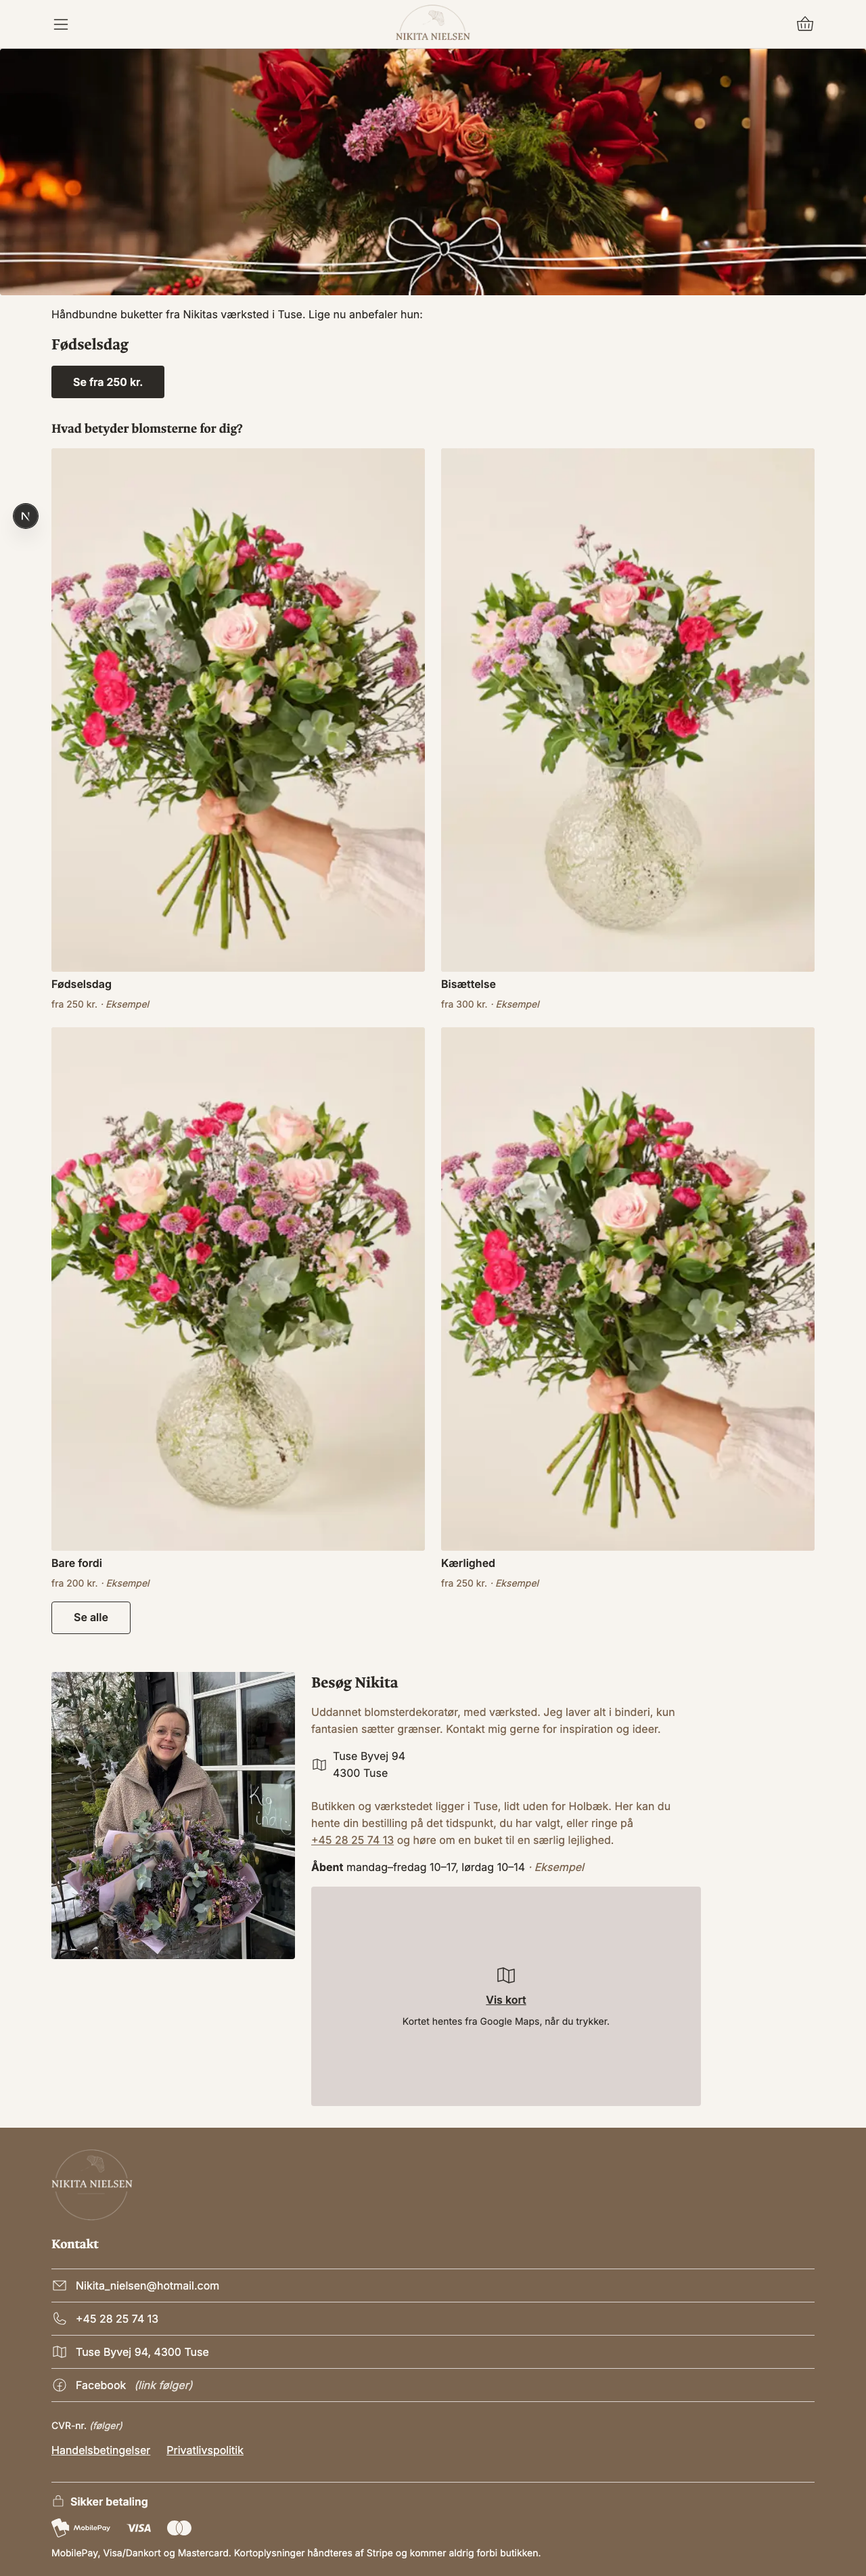
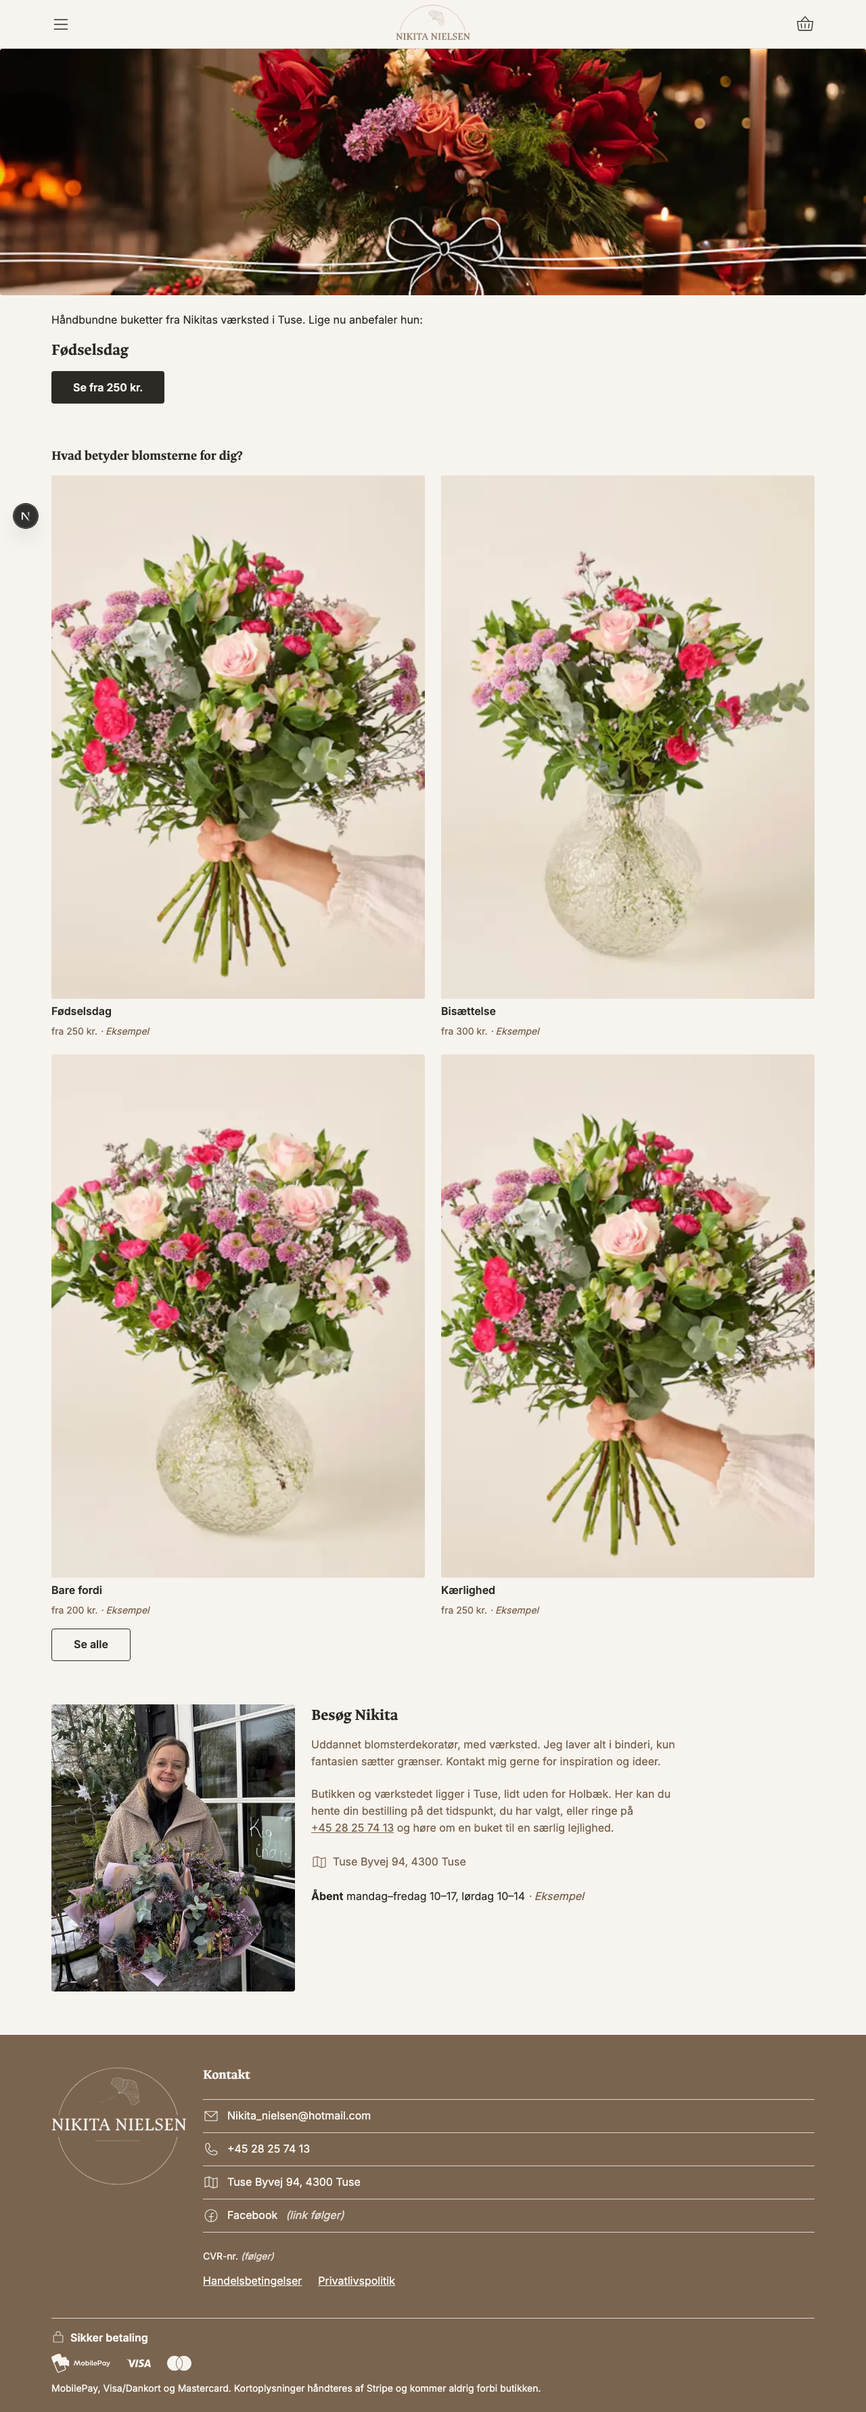
Front page grouped by proximity; Besøg Nikita without map; footer split from tablet up (DD-34, DD-36, DD-37)

diff --git a/frontend/src/components/site-footer.tsx b/frontend/src/components/site-footer.tsx
@@ -18,7 +18,10 @@ import styles from "./site-footer.module.css";
 /**
  * Footer C (DD-08): a Sand band, the full logo in Paper, contact as
  * full-width 48 px rows, then CVR, the legal links (CLAUDE.md override 1)
- * and the payment methods (DD-22).
+ * and secure payment with the marks (DD-33). From tablet up it splits: a
+ * larger logo on the left, the information on the right, payment across
+ * both (DD-36). The phone keeps one column: a 390 px screen has no room
+ * for the logo beside the email address (found with footer variant A).
  */
 export function SiteFooter() {
   const address = `${SHOP.street}, ${SHOP.postcode} ${SHOP.town}`;
@@ -27,57 +30,60 @@ export function SiteFooter() {
       <Image
         src="/brand/logo-full-paper-160w@3x.png"
         alt="Nikita Nielsen"
-        width={120}
-        height={105}
+        width={200}
+        height={175}
+        sizes="(max-width: 599px) 120px, 200px"
         className={styles.logo}
       />
-      <h2 className={styles.heading}>Kontakt</h2>
-      <ul className={styles.list}>
-        <li>
-          <a className={styles.row} href={`mailto:${SHOP.email}`}>
-            <EnvelopeIcon /> {SHOP.email}
-          </a>
-        </li>
-        <li>
-          <a className={styles.row} href={SHOP.phoneHref}>
-            <PhoneIcon /> {SHOP.phone}
-          </a>
-        </li>
-        <li>
-          <a
-            className={styles.row}
-            href={`https://www.google.com/maps/search/?api=1&query=${encodeURIComponent(address)}`}
-          >
-            <MapTrifoldIcon /> {address}
-          </a>
-        </li>
-        <li>
-          {SHOP.facebookUrl ? (
-            <a className={styles.row} href={SHOP.facebookUrl}>
-              <FacebookLogoIcon /> Facebook
+      <div className={styles.info}>
+        <h2 className={styles.heading}>Kontakt</h2>
+        <ul className={styles.list}>
+          <li>
+            <a className={styles.row} href={`mailto:${SHOP.email}`}>
+              <EnvelopeIcon /> {SHOP.email}
             </a>
-          ) : (
-            <span className={styles.row}>
-              <FacebookLogoIcon /> Facebook{" "}
-              <span className={styles.placeholder}>(link følger)</span>
-            </span>
-          )}
-        </li>
-      </ul>
-      <div className={styles.legal}>
-        <p>
-          {SHOP.cvr ? (
-            `CVR-nr. ${SHOP.cvr}`
-          ) : (
-            <>
-              CVR-nr. <span className={styles.placeholder}>(følger)</span>
-            </>
-          )}
-        </p>
-        <p className={styles.links}>
-          <Link href="/handelsbetingelser">Handelsbetingelser</Link>
-          <Link href="/privatlivspolitik">Privatlivspolitik</Link>
-        </p>
+          </li>
+          <li>
+            <a className={styles.row} href={SHOP.phoneHref}>
+              <PhoneIcon /> {SHOP.phone}
+            </a>
+          </li>
+          <li>
+            <a
+              className={styles.row}
+              href={`https://www.google.com/maps/search/?api=1&query=${encodeURIComponent(address)}`}
+            >
+              <MapTrifoldIcon /> {address}
+            </a>
+          </li>
+          <li>
+            {SHOP.facebookUrl ? (
+              <a className={styles.row} href={SHOP.facebookUrl}>
+                <FacebookLogoIcon /> Facebook
+              </a>
+            ) : (
+              <span className={styles.row}>
+                <FacebookLogoIcon /> Facebook{" "}
+                <span className={styles.placeholder}>(link følger)</span>
+              </span>
+            )}
+          </li>
+        </ul>
+        <div className={styles.legal}>
+          <p>
+            {SHOP.cvr ? (
+              `CVR-nr. ${SHOP.cvr}`
+            ) : (
+              <>
+                CVR-nr. <span className={styles.placeholder}>(følger)</span>
+              </>
+            )}
+          </p>
+          <p className={styles.links}>
+            <Link href="/handelsbetingelser">Handelsbetingelser</Link>
+            <Link href="/privatlivspolitik">Privatlivspolitik</Link>
+          </p>
+        </div>
       </div>
       {/* Secure payment and the methods (Felix, 27 Nov). "Sikker betaling",
           not "100 %": no absolute claims (brand voice, marketing law). */}

diff --git a/frontend/src/app/page.tsx b/frontend/src/app/page.tsx
@@ -6,7 +6,6 @@ import { Photo } from "@/components/photo";
 import { getDeliveryRules, getOccasions } from "@/lib/catalog";
 import { kroner } from "@/lib/format";
 import { openingHoursInWords } from "@/lib/opening-hours";
-import { MapEmbed } from "@/components/map-embed";
 import { SHOP } from "@/lib/shop";
 import { HERO_STAND_IN, VISIT_STAND_IN } from "@/lib/stand-ins";
 import styles from "./page.module.css";
@@ -90,21 +89,11 @@ export default async function Home() {
             kun fantasien sætter grænser. Kontakt mig gerne for inspiration og
             ideer.
           </p>
-          <a
-            className={styles.address}
-            href={`https://www.google.com/maps/search/?api=1&query=${encodeURIComponent(address)}`}
-          >
-            <MapTrifoldIcon />
-            <span>
-              {SHOP.street}
-              <br />
-              {SHOP.postcode} {SHOP.town}
-            </span>
-          </a>
         </div>
-        {/* More about the shop and a map (Felix, 27 Nov). Only facts the
-            shop has given: the address, pickup at a chosen time (DD-18),
-            the phone, and the opening hours from the back office. */}
+        {/* More about the shop (Felix, 27 Nov, DD-34): only facts the shop
+            has given, then the address on one line and the opening hours
+            from the back office. The map was tried and taken out the same
+            day (too bulky). */}
         <div className={styles.visitMore}>
           <p className="muted">
             Butikken og værkstedet ligger i Tuse, lidt uden for Holbæk. Her kan
@@ -112,13 +101,19 @@ export default async function Home() {
             på <a href={SHOP.phoneHref}>{SHOP.phone}</a> og høre om en buket til
             en særlig lejlighed.
           </p>
+          <a
+            className={styles.address}
+            href={`https://www.google.com/maps/search/?api=1&query=${encodeURIComponent(address)}`}
+          >
+            <MapTrifoldIcon />
+            <span>{address}</span>
+          </a>
           {rules && Object.keys(rules.openingHours).length > 0 && (
             <p>
               <strong>Åbent</strong> {openingHoursInWords(rules.openingHours)}
               {rules.placeholder && <em className="muted"> · Eksempel</em>}
             </p>
           )}
-          <MapEmbed address={address} />
         </div>
       </section>
     </>

diff --git a/frontend/src/app/page.module.css b/frontend/src/app/page.module.css
@@ -10,11 +10,14 @@
   }
 }
 
+/* Grouping by proximity (Felix, 27 Nov, DD-37): 16 px inside a group, three
+   times that between the recommendation, the occasions and the visit, so
+   each reads as its own block instead of one long run. */
 .featured {
   display: flex;
   flex-direction: column;
   gap: var(--space-2);
-  padding: var(--space-2) var(--page-inline) var(--space-3);
+  padding: var(--space-3) var(--page-inline) var(--space-6);
 }
 
 .intro {
@@ -55,7 +58,7 @@
   display: flex;
   flex-direction: column;
   gap: var(--space-2);
-  padding: var(--space-1) var(--page-inline) var(--space-4);
+  padding: 0 var(--page-inline) var(--space-6);
 }
 
 .occasions h2,
@@ -77,7 +80,7 @@
   display: grid;
   grid-template-columns: 45% 1fr;
   gap: var(--space-3) var(--grid-gutter);
-  padding: var(--space-3) var(--page-inline) var(--space-4);
+  padding: 0 var(--page-inline) var(--space-6);
 }
 
 .visitText {
@@ -107,7 +110,6 @@
   align-items: center;
   gap: var(--space-1);
   min-height: 44px;
-  margin-top: auto;
   color: var(--color-text);
   text-decoration: none;
 }
@@ -143,8 +145,10 @@
     font-size: var(--text-xl);
   }
 
-  .address {
-    margin-top: 0;
+  .featured,
+  .occasions,
+  .visit {
+    padding-bottom: var(--space-8);
   }
 
   /* The buttons fit their text from tablet up (Felix, 27 Nov); on the

diff --git a/frontend/src/components/site-footer.module.css b/frontend/src/components/site-footer.module.css
@@ -91,3 +91,35 @@
 .methods {
   font-size: var(--text-sm);
 }
+
+/* From tablet up (Felix, 27 Nov, DD-36): logo larger on the left, the
+   information on the right, payment across both below. */
+@media (min-width: 600px) {
+  .footer {
+    display: grid;
+    grid-template-columns: 200px 1fr;
+    gap: var(--space-4) var(--grid-gutter);
+    padding-top: var(--space-6);
+  }
+
+  .logo {
+    width: 200px;
+  }
+
+  .info {
+    display: flex;
+    flex-direction: column;
+    gap: var(--space-3);
+    min-width: 0;
+  }
+
+  .payment {
+    grid-column: 1 / -1;
+  }
+}
+
+@media (max-width: 599px) {
+  .info {
+    display: contents;
+  }
+}

diff --git a/docs/design-decisions.md b/docs/design-decisions.md
@@ -237,14 +237,25 @@ Depends on: MobilePay switched on in the Stripe dashboard (checkout-payment 4.5)
 Rejected: "100 % sikker betaling"; the plain text line alone (DD-22).
 Test: in the usability test, ask before checkout how they expect to pay.
 
-### DD-34 "Besøg Nikita" gets more text, the opening hours and a two-click map
+### DD-34 "Besøg Nikita" gets more text, the opening hours and a two-click map (map removed the same day)
 Date: 2026-11-27 · Principles: P10 (facts people and AI tools can quote), P9 (no tracking without consent) · Evidence grade: C (two-click embeds are common practice on Danish and German sites under the cookie rules)
 Decision: Under the photo and the short introduction: a paragraph with only facts the shop has given (the shop and workshop are in Tuse, just outside Holbæk; pick up at the chosen time; call about a special occasion), the opening hours from the back office ("Eksempel" while placeholders), and a map. The map is a Linen panel, "Vis kort, Kortet hentes fra Google Maps, når du trykker"; Google Maps loads only when tapped. Measured: 0 requests to Google before the tap, 33–39 after. The address link stays. On the phone the new text and map run full width under photo and introduction; from tablet up they sit in the text column beside the photo. Felix's call (map instead of only the link, "so it can take up more space and write more text"; two-click chosen over loading at once or OpenStreetMap).
 Follow-up: the privacy policy (week 5) must say the map loads from Google when tapped.
 Rejected: loading Google Maps with the page (needs a cookie banner, loads Google fonts against the spec); OpenStreetMap.
+Changed the same day (Felix: the section "still looks bulky"): the map is taken out; the address moves down above the opening hours as one line ("Tuse Byvej 94, 4300 Tuse"). The extra text and the opening hours stay. With no map, the privacy-policy follow-up falls away.
 Test: in the usability test, can people say where the shop is and when it is open?
 
 ### DD-35 The recommendation: two texts and a button that fits its text
 Date: 2026-11-27 · Principles: P11 (fewer competing elements), DD-22 · Evidence grade: C (opinion: Felix found three texts and a full-width button messy)
 Decision: The recommended bouquet's description line is dropped; the intro line leads straight into the name and the button "Se fra 250 kr.", which carries the price. From tablet up the buttons "Se fra …" and "Se alle" fit their text instead of spanning the width; on the phone they stay full width for the thumb (Felix's choice). The description is still on the bouquet's own page.
 Rejected: merging the intro line and the name (a shorter h1 says less about the shop); keeping all three texts; narrow buttons on the phone too.
+
+### DD-36 The footer splits from tablet up
+Date: 2026-11-27 · Principles: DD-08 (footer C), P11 · Evidence grade: C (opinion: Felix)
+Decision: From 600 px the footer is two columns: the full logo larger (200 px instead of 120) on the left, contact, CVR and legal links on the right, and "Sikker betaling" with the payment marks across both below. The phone keeps one column, because at 390 px the logo beside the email address leaves too little room (the reason footer variant A needed 14 px text on 23 Nov). Felix's call.
+
+### DD-37 The front page groups by proximity
+Date: 2026-11-27 · Principles: P11 · Evidence grade: B (Gestalt law of proximity; NN/g on visual grouping)
+Decision: Inside a group (the recommendation, the occasions, the visit) elements stay 16 px apart; between groups there are 48 px on the phone and 64 px from tablet up, so each reads as its own block. Before, the recommendation ran on into the occasions and the visit at nearly the same spacing as its own lines (Felix: "one long line that continues until the about me section").
+Rejected: dividing lines or panels (more elements, against the owner's wish for simple); keeping the spacing.
+Test: in the usability test, ask what the front page offers; do people name the recommendation, the occasions and the shop as separate things?

diff --git a/docs/process/2026-11-19-storefront.md b/docs/process/2026-11-19-storefront.md
@@ -103,3 +103,4 @@ Felix's education is design-oriented, so every key layout choice is his (CLAUDE.
   - *Found while getting the icons:* Simple Icons has Visa and Mastercard but no MobilePay or Dankort; Commons has a public-domain MobilePay logo, Dankort only as a PNG. Checking whether to chase a Dankort mark led to Stripe's docs: Stripe does not process the Dankort network, co-branded cards go as Visa. So the footer and checkout said something untrue; both now say "Visa/Dankort", with no Dankort mark.
   - The new text uses only given facts; the opening hours come from the back-office data, marked "Eksempel" like other placeholders. A small helper writes them in Danish ("mandag–fredag 10–17, lørdag 10–14"), with 3 tests.
   - Checked: 0 requests to Google before tapping "Vis kort", the map loads after; no horizontal scroll at 390 and 1280; the payment marks were first too small to read (MobilePay at 20 px) and were enlarged; the phone number in the new paragraph broke across lines and now stays together. 28 unit tests and 11 phone tests pass.
+- **Grouping, footer split, map out (27 Nov, DD-34 changed, DD-36, DD-37).** Felix: the recommendation lacked Gestalt grouping and ran on "until the about me section"; the about section still looked bulky; the footer should split with a bigger logo. Fixed by proximity alone (16 px inside a group, 48/64 px between groups), not by lines or panels; the map came out the same day it went in, the address moved above the opening hours on one line; the footer splits from tablet up (the phone keeps one column for the reason found with footer variant A on 23 Nov). The unused map component was deleted. Checked at 390 and 1280 px, no horizontal scroll; phone tests pass.
